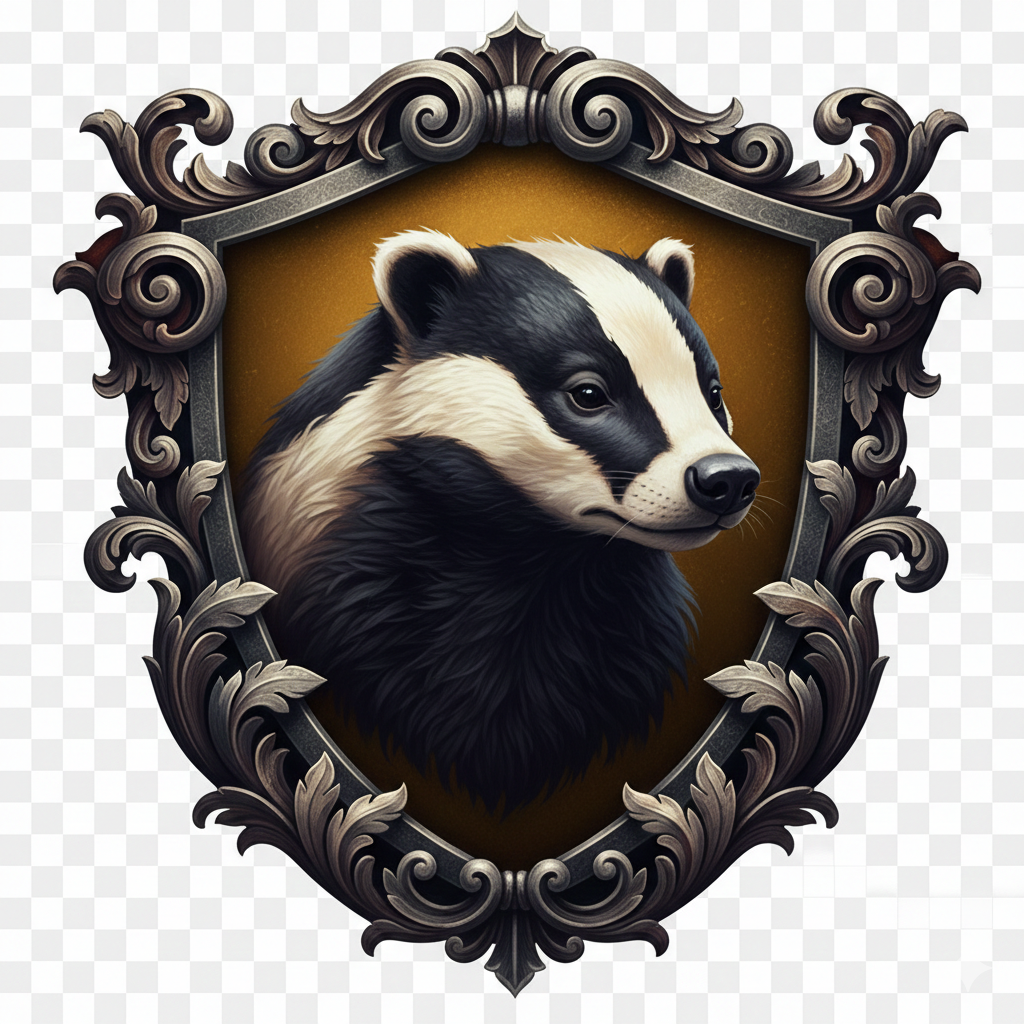
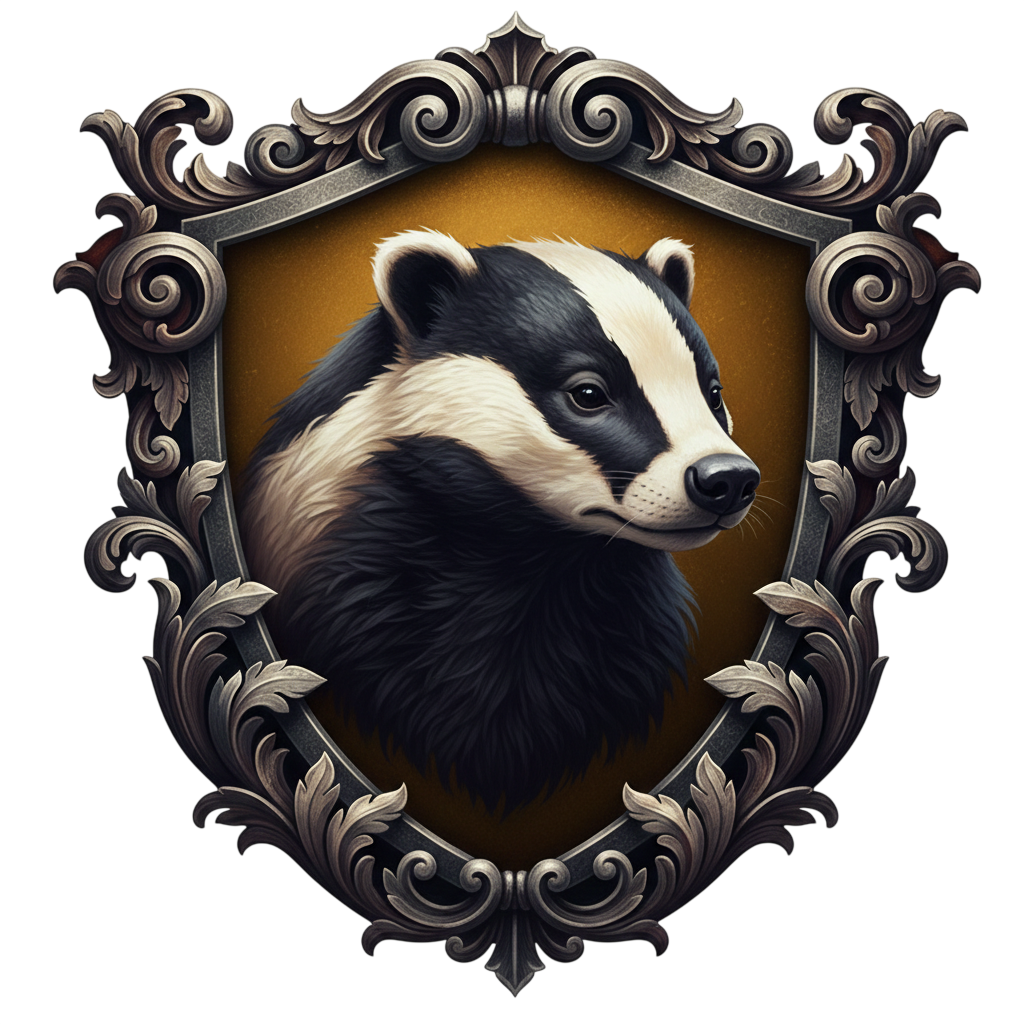
이미지 업데이트 및 CSS 정리
- 배정 모자 이미지 배경 제거 및 교체
- 모든 임원 엠블럼 이미지 업데이트
- leader-trait CSS 스타일 제거

Changed region(s): [[0.7812, 0.7812, 0.8125, 0.8125], [0.1875, 0.7812, 0.2188, 0.8125], [0.0938, 0.1875, 0.125, 0.2188]]

diff --git a/style.css b/style.css
@@ -579,14 +579,6 @@ body::before {
     text-align: center;
 }
 
-.leader-trait {
-    font-size: 0.8rem;
-    color: var(--color-gold);
-    text-align: center;
-    opacity: 0.8;
-    margin-top: 2px;
-}
-
 .selected-count {
     text-align: center;
     font-size: 1.1rem;
